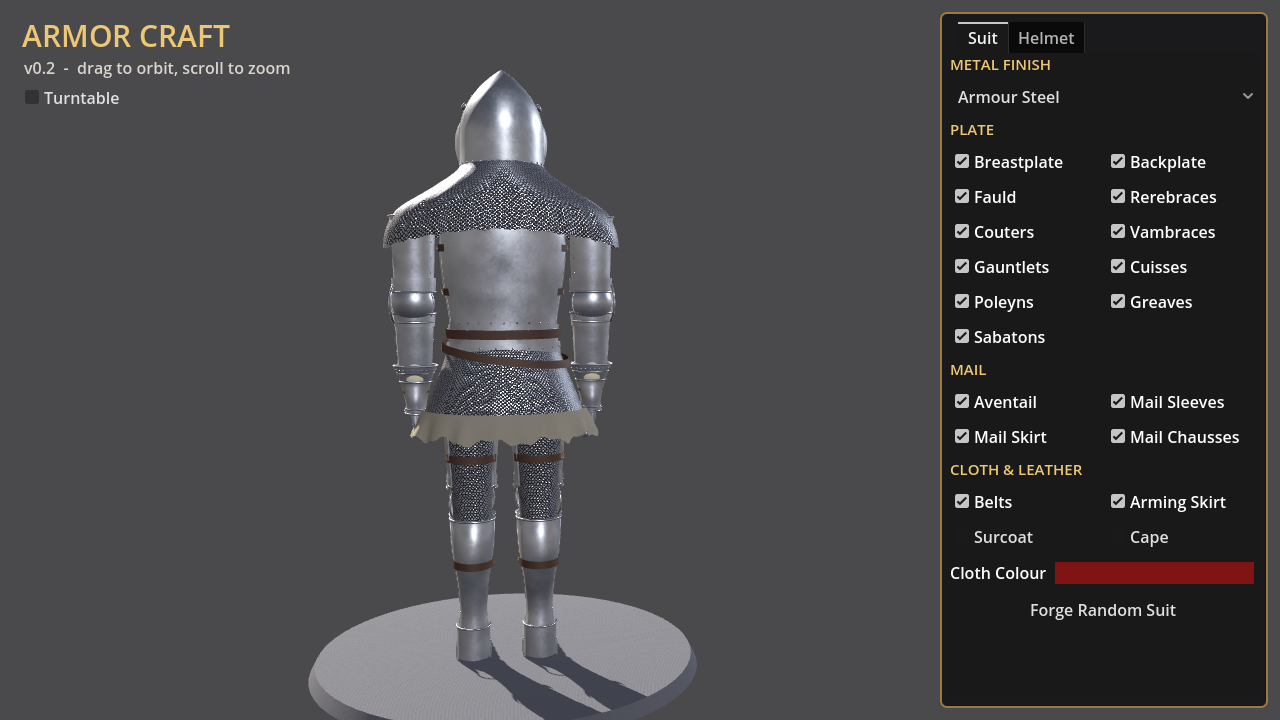
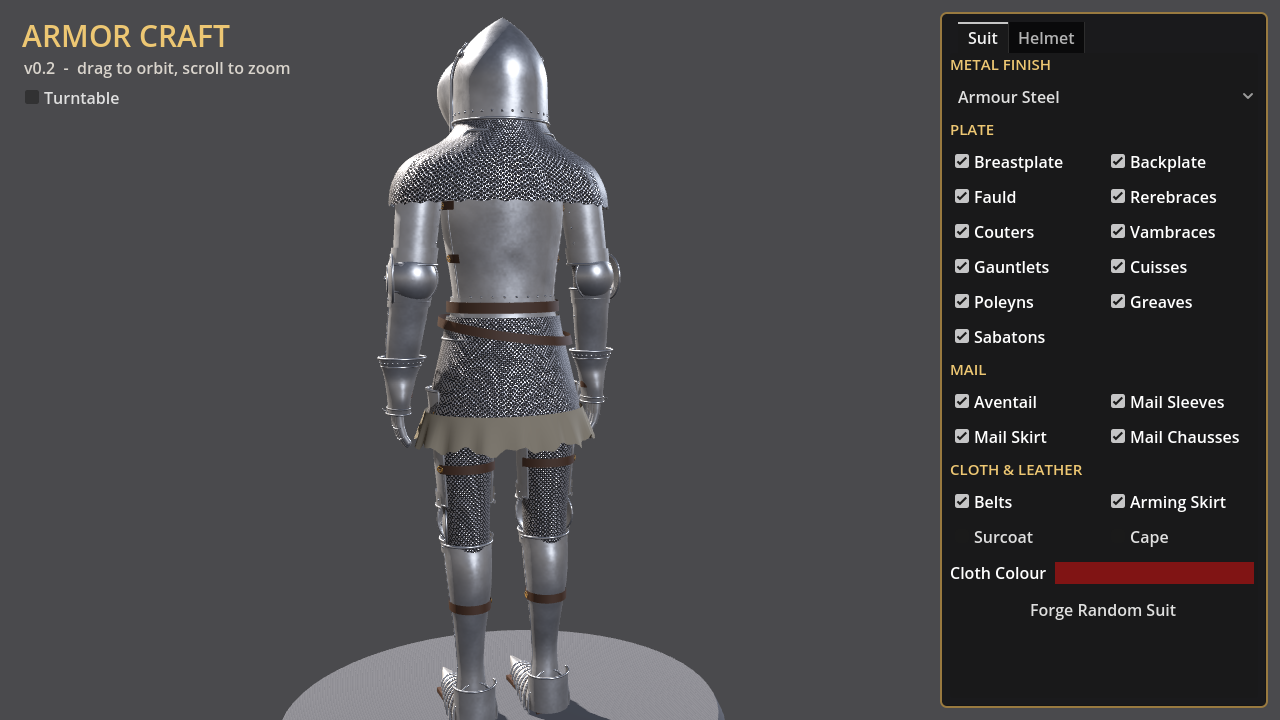
v0.3: body proportions measured from reference
Anatomy landmarks drive every piece; arms angle out with bent elbows,
narrower waist, longer mail skirt, smaller helmet, mail neck column,
slimmer arms and ankles, wider sabatons.

Claude-Session: https://claude.ai/code/session_01WeZQLGxhK27PqRdm928ucn

Changed region(s): [[0.2188, 0.0306, 0.5625, 1.0]]

diff --git a/README.md b/README.md
@@ -6,7 +6,14 @@ Design full suits of plate armor and sculpt your own helmet. Built in Godot 4.4 
 ![Helmet designer](docs/helmet.png)
 ![Back](docs/back.png)
 
-## v0.2 – what's in
+**Proportions vs. reference** (left of each pair: reference, right: Armor Craft)
+
+![Proportions](docs/proportions.png)
+
+## v0.3 – what's in
+
+Body proportions are measured off the reference (about seven helmets tall, 1.86 m to the bascinet apex) and live as named landmarks at the top of `scripts/suit_builder.gd`: shoulder, elbow, wrist, waist, hem, knee, plus arm and leg centre-lines. Change one number and every piece follows.
+
 
 **The harness** (modelled on an Italian-style harness, c. 1400–1420), every piece procedural:
 - Hounskull bascinet: pointed apex, pig-faced visor with eye slit and breaths, rosette pivots, aventail vervelles
